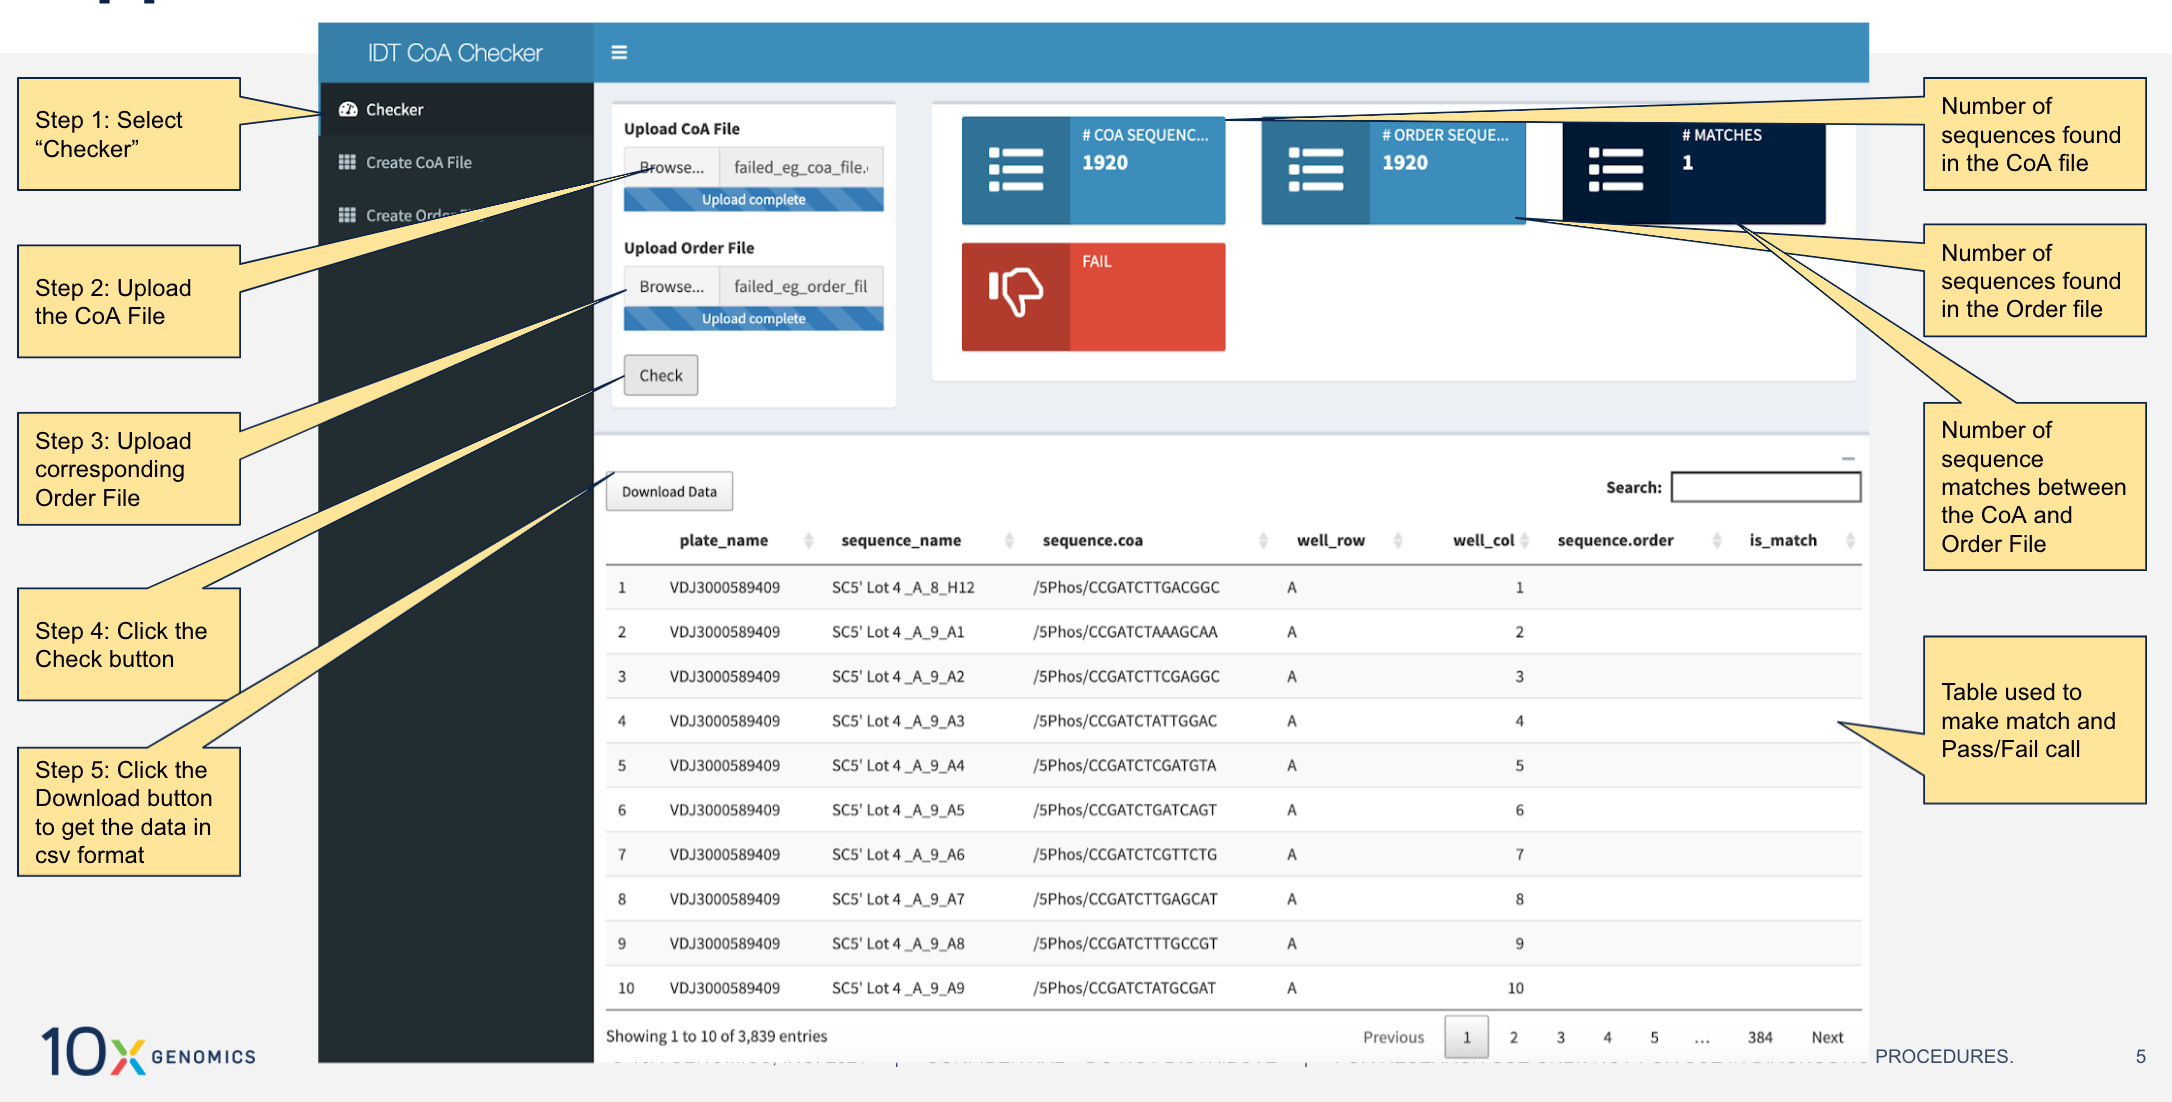
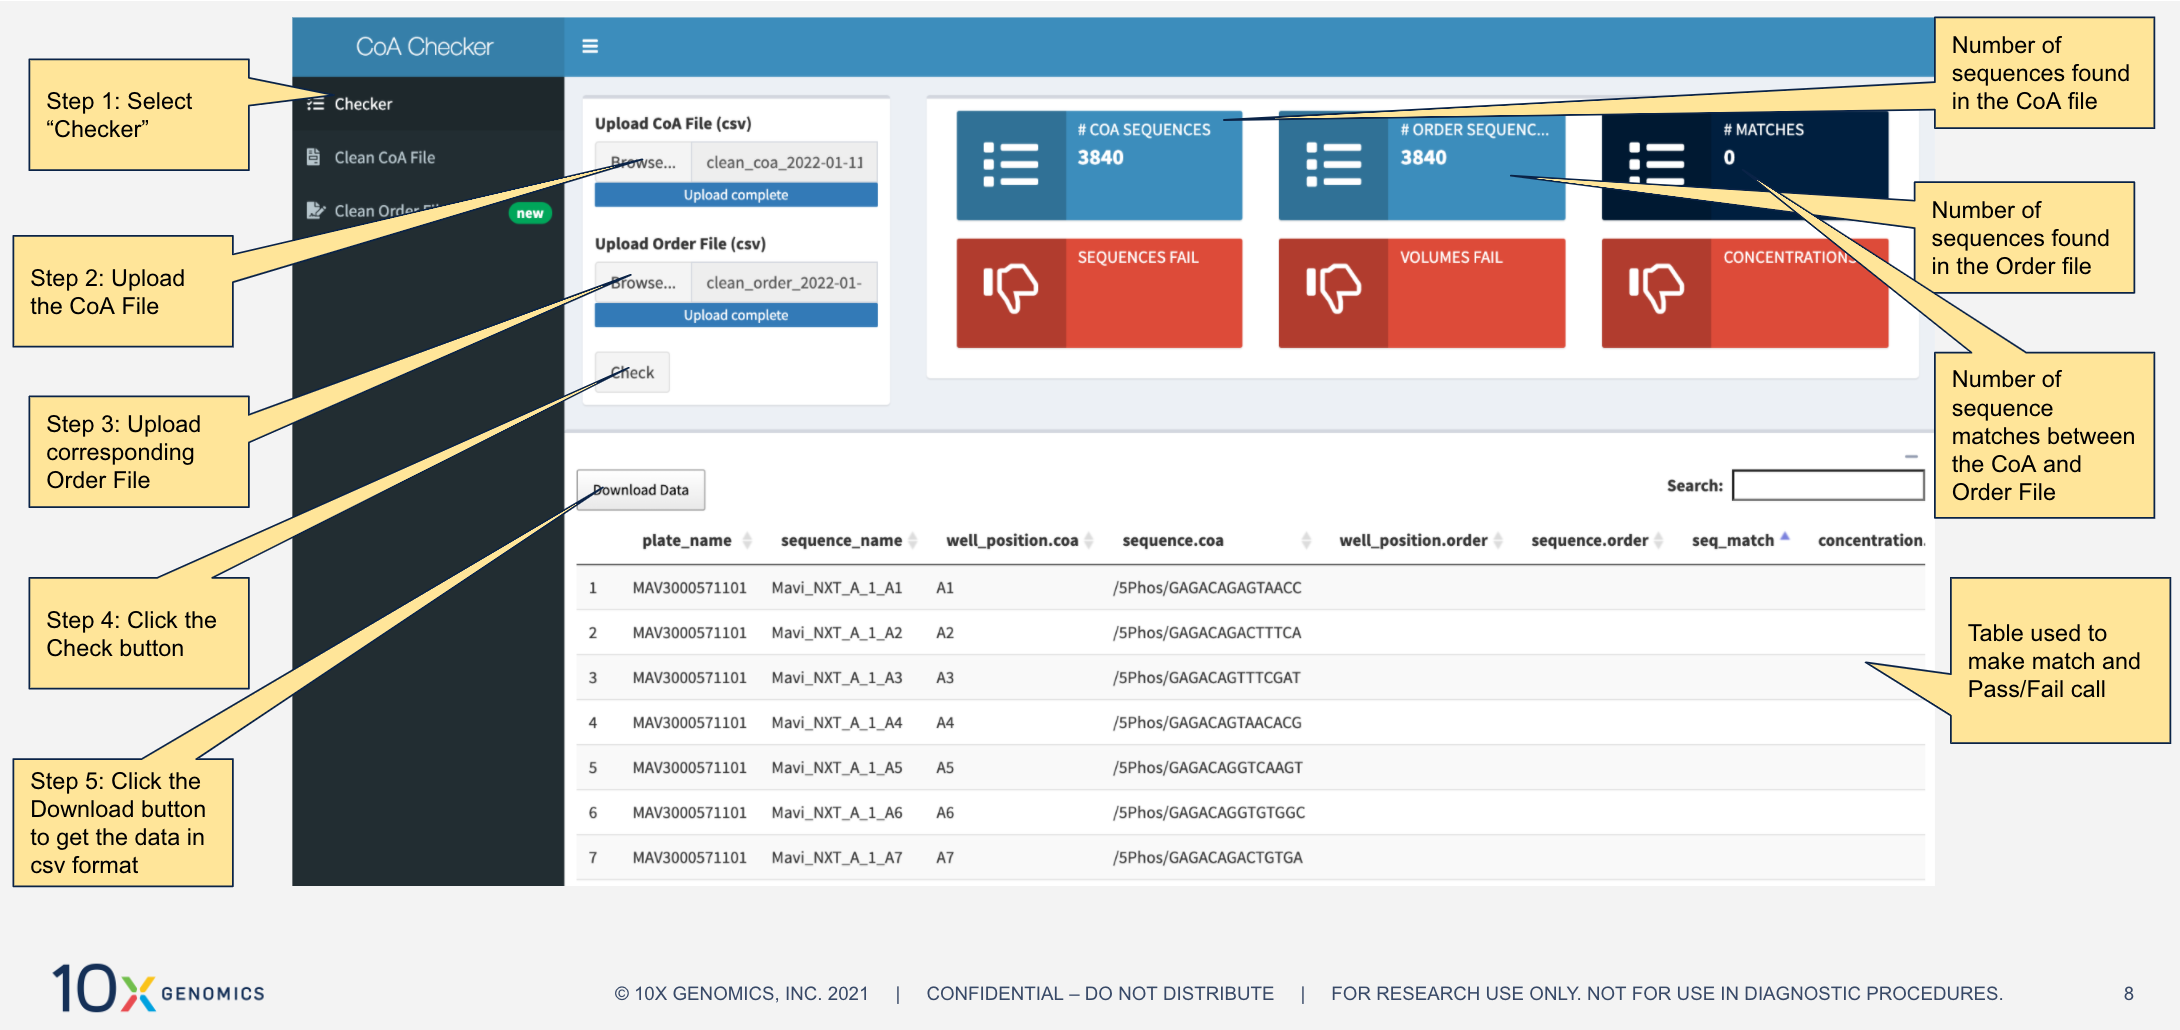
updated readme file

diff --git a/README.md b/README.md
@@ -20,11 +20,14 @@ v 1.0.0
 There are a few assumptions that are made within the code. These are explained in detail below
 
 1. Input
-    * The input CoA file is a CSV file
-    * The input Order file is an XLSX file in the standard IDT order form format is expected
-    * Both the files at minimum should contain columns that have "plate name", "well position", "sequence name", "sequence", "concentration", and "volume"
-    * Sequences in the CoA file will be checked to see if they match with those present in the order file. So, Order file should contain “all” the relevant plates information of the CoA being checked
-    * Order file can contain additional sequences not within the CoA file
+    * Input
+    * Accepts a clean CSV CoA File (i.e needs to be cleaned by the “Clean CoA file” tab)
+    * Accepts a clean CSV Order File (i.e needs to be cleaned by the “Clean Order file” tab)
+    * The raw files before cleaning 
+        - Should have the columns “plate name”, “well position”, “sequence name” and “sequence”
+        - Should also have columns “volume” and “concentration”
+        - Can have all the columns as sent by the vendor
+
 2. Checks Done
     * Outputs number of sequences in both files
     * Outputs number of matches of sequences
@@ -38,18 +41,29 @@ There are a few assumptions that are made within the code. These are explained i
 Sometimes, the vendor sends a combined CoA file, for many plates/orders in one file. This cleaning utility was added to the app to make this cleaning easier. And not rely on the manual cut-paste operations.
 
 1. Select "Clean CoA File" tab in the left side panel.
-2. Upload the raw CoA File.
-3. The selection box labeled "Choose columns to Filter By" should be populated by the column names in the raw CoA file.
-4. Choose a column name to filter by.
-5. The selection box labeled "Choose values to Filter" should be populated by the unique values in the above selected columns.
-6. Choose the appropriate value to filter by.
-7. Click on "Add to Filter". The text box on the top right should show the filters selected.
-8. Repeat this as many times as needed.
-9. Click on "View Filtered Data" to display the filtered data on the right.
-10. Click on "Download Clean File" to download the clean CoA file containing only the filtered data.
+2. Select appropriate vendor.
+3. Upload the raw CoA File.
+4. The selection box labeled "Choose columns to Filter By" should be populated by the column names in the raw CoA file.
+5. Choose a column name to filter by.
+6. The selection box labeled "Choose values to Filter" should be populated by the unique values in the above selected columns.
+7. Choose the appropriate value to filter by.
+8. Click on "Add to Filter". The text box on the top right should show the filters selected.
+9. Repeat this as many times as needed.
+10. Click on "View Filtered Data" to display the filtered data on the right.
+11. Click on "Download Clean File" to download the clean CoA file containing only the filtered data.
 
 ![Clean_CoA](img/clean_coa.png)
 
 ### Cleaning Order File
 
-Coming soon
+The Order files come in various flavours. The sheet in which the actual data is located varies. This cleaning utility tries to make it a little flexible to get this data without relying on manual cut-paste operations
+
+1. Select "Clean Order File" tab in the left side panel.
+2. Select appropriate vendor.
+3. Upload the raw Order file.
+4. The sheet name selection box should now be populated.
+5. Choose the appropriate sheet from which data should be pulled.
+6. Click on "View Order Data" to make sure the data looks OK.
+7. Click on "Download Clean File" to download the clean Order file.
+
+![Clean_Order](img/clean_order.png)
